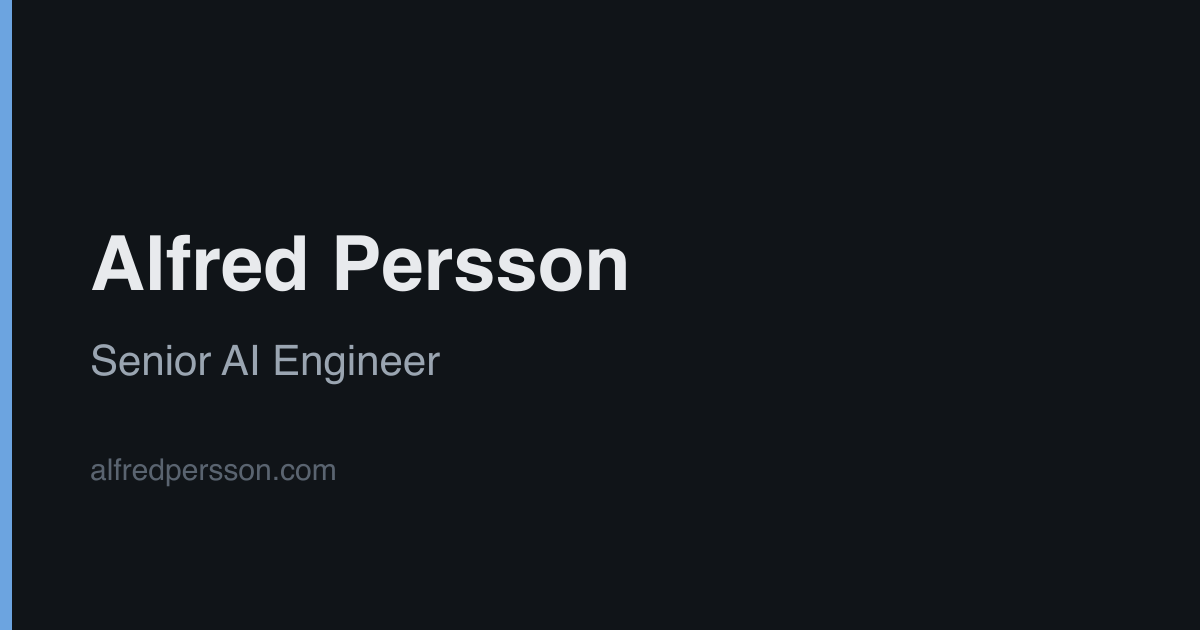
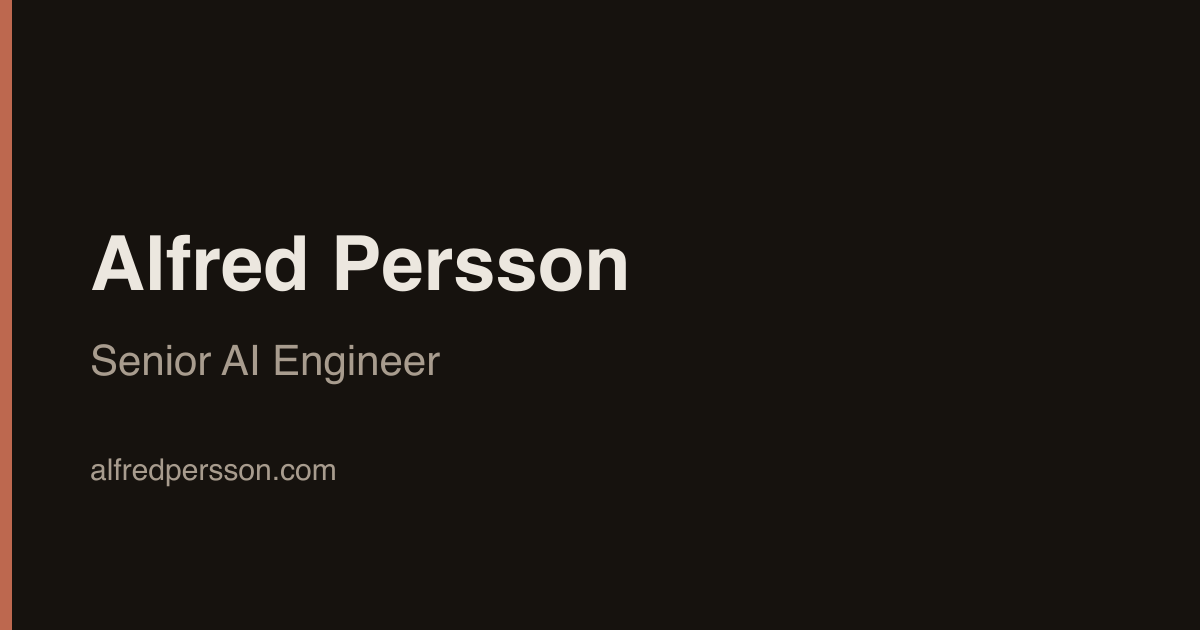
feat: A2 editorial terracotta design system

Changed region(s): [[0.0, 0.0, 0.0308, 1.0], [0.0617, 0.5429, 0.37, 0.6032], [0.0617, 0.7238, 0.2775, 0.7841]]

diff --git a/src/styles/global.css b/src/styles/global.css
@@ -1,19 +1,25 @@
 :root {
-  --bg: #ffffff;
-  --fg: #16181c;
-  --muted: #5a6470;
-  --accent: #1a5fb4;
-  --rule: #e3e6ea;
-  --font-sans: -apple-system, BlinkMacSystemFont, "Segoe UI", Roboto, "Helvetica Neue", Arial, sans-serif;
-  --font-mono: ui-monospace, SFMono-Regular, Menlo, Consolas, monospace;
+  --bg: #faf7f2;
+  --fg: #1a1714;
+  --muted: #6b6259;
+  --accent: #a34a2a;
+  --accent-hover: #7f3a20;
+  --accent-strong: #bd684f;
+  --rule: #e6dfd6;
+  --chip-bg: rgba(189, 104, 79, 0.12);
+  --font-serif: 'Source Serif 4 Variable', Georgia, 'Times New Roman', serif;
+  --font-mono: 'JetBrains Mono Variable', ui-monospace, Menlo, monospace;
 }
 @media (prefers-color-scheme: dark) {
   :root {
-    --bg: #101418;
-    --fg: #e8eaed;
-    --muted: #9aa5b1;
-    --accent: #6ca4e0;
-    --rule: #2a3138;
+    --bg: #16120e;
+    --fg: #ece7df;
+    --muted: #a89c8e;
+    --accent: #d68a6b;
+    --accent-hover: #e8a988;
+    --accent-strong: #bd684f;
+    --rule: #322a23;
+    --chip-bg: rgba(189, 104, 79, 0.18);
   }
 }
 * { box-sizing: border-box; }
@@ -21,23 +27,133 @@ body {
   margin: 0;
   background: var(--bg);
   color: var(--fg);
-  font-family: var(--font-sans);
+  font-family: var(--font-serif);
   line-height: 1.6;
   font-size: 1.0625rem;
 }
-.wrap { max-width: 44rem; margin: 0 auto; padding: 0 1.25rem; }
-a { color: var(--accent); }
+.wrap { max-width: 42.5rem; margin: 0 auto; padding: 0 1.5rem; }
+a { color: var(--accent); text-decoration-thickness: 1px; text-underline-offset: 3px; }
+a:hover { color: var(--accent-hover); text-decoration-thickness: 2px; }
 h1, h2, h3 { line-height: 1.25; }
 code, pre { font-family: var(--font-mono); font-size: 0.9em; }
-pre { overflow-x: auto; padding: 1rem; border: 1px solid var(--rule); border-radius: 6px; }
+pre { overflow-x: auto; padding: 1rem; border: 1px solid var(--rule); border-radius: 4px; }
 hr { border: 0; border-top: 1px solid var(--rule); }
-details { border: 1px solid var(--rule); border-radius: 6px; padding: 0.75rem 1rem; margin: 1rem 0; }
+table { border-collapse: collapse; width: 100%; margin: 1.5rem 0; font-size: 0.95em; display: block; overflow-x: auto; }
+th, td { border: 1px solid var(--rule); padding: 0.5rem 0.75rem; text-align: left; vertical-align: top; }
+th { font-family: var(--font-mono); font-size: 0.75em; letter-spacing: 0.06em; text-transform: uppercase; color: var(--muted); font-weight: 600; }
+details { border: 1px solid var(--rule); border-radius: 4px; padding: 0.75rem 1rem; margin: 1rem 0; }
 details > summary { cursor: pointer; font-weight: 600; }
 details[open] > summary { margin-bottom: 0.75rem; }
-header.wrap nav { display: flex; gap: 1.25rem; padding: 1.25rem 0; }
+::selection { background: var(--accent-strong); color: var(--bg); }
+
+/* nav */
+header.wrap nav { display: flex; gap: 1.5rem; align-items: baseline; padding: 1.75rem 0 0 0; flex-wrap: wrap; }
 header.wrap nav a { color: var(--fg); text-decoration: none; }
-header.wrap nav a:first-child { font-weight: 700; margin-right: auto; }
-footer.wrap { color: var(--muted); font-size: 0.9rem; padding-bottom: 2rem; }
-.case-card { border: 1px solid var(--rule); border-radius: 6px; padding: 1rem 1.25rem; margin: 1rem 0; }
-.case-card h3 { margin-top: 0; }
-.reserved { color: var(--muted); font-size: 0.85rem; font-weight: 400; margin-left: 0.5rem; }
+header.wrap nav a:first-child {
+  font-weight: 700;
+  font-size: 17px;
+  margin-right: auto;
+  display: flex;
+  align-items: center;
+  gap: 9px;
+}
+header.wrap nav a:first-child::before {
+  content: '';
+  width: 9px;
+  height: 9px;
+  background: var(--accent-strong);
+  display: inline-block;
+  flex-shrink: 0;
+}
+header.wrap nav a:not(:first-child) {
+  font-family: var(--font-mono);
+  font-size: 12.5px;
+  letter-spacing: 0.04em;
+}
+
+/* footer */
+footer.wrap { font-family: var(--font-mono); color: var(--muted); font-size: 0.8125rem; padding-bottom: 2rem; }
+
+/* numbered section label */
+.section-label { display: flex; align-items: baseline; gap: 14px; margin: 0 0 26px 0; }
+.section-label__num { font-family: var(--font-mono); font-size: 13px; font-weight: 600; color: var(--accent); }
+.section-label h2 {
+  font-size: 15px;
+  font-weight: 600;
+  letter-spacing: 0.11em;
+  text-transform: uppercase;
+  margin: 0;
+  font-family: var(--font-mono);
+}
+.section-label__rule { flex: 1; border-top: 1px solid var(--rule); align-self: center; }
+
+/* metric chip */
+.chip {
+  font-family: var(--font-mono);
+  font-size: 12px;
+  font-weight: 500;
+  color: var(--accent);
+  background: var(--chip-bg);
+  padding: 4px 10px;
+  white-space: nowrap;
+}
+
+/* reserved label */
+.reserved { font-family: var(--font-mono); font-size: 12px; color: var(--muted); white-space: nowrap; }
+
+/* case study card */
+.case-card { padding: 4px 0 0 0; margin: 1rem 0; }
+.case-card__head { display: flex; align-items: baseline; justify-content: space-between; gap: 16px; flex-wrap: wrap; margin: 0 0 10px 0; }
+.case-card__head h3 { font-size: 24px; font-weight: 600; margin: 0; letter-spacing: -0.01em; }
+.case-card__head h3 a { color: var(--fg); text-decoration: none; }
+.case-card .problem { font-size: 16.5px; line-height: 1.55; margin: 0 0 20px 0; }
+.case-card .problem em { color: var(--muted); }
+
+/* ledger rows (decisions) */
+.ledger { display: flex; flex-direction: column; }
+.ledger-row { border-top: 1px solid var(--rule); padding: 14px 0; display: grid; grid-template-columns: 96px minmax(0, 1fr); gap: 14px; }
+.ledger-row__label {
+  font-family: var(--font-mono);
+  font-size: 11px;
+  font-weight: 600;
+  letter-spacing: 0.1em;
+  text-transform: uppercase;
+  color: var(--muted);
+  padding-top: 3px;
+}
+.ledger-row p { font-size: 15px; line-height: 1.5; margin: 0; }
+.ledger-row .measured-by { font-family: var(--font-mono); font-size: 12.5px; color: var(--accent); }
+.ledger-bottom { border-top: 1px solid var(--rule); }
+@media (max-width: 680px) {
+  .ledger-row { grid-template-columns: 1fr; gap: 4px; }
+  .chip { white-space: normal; }
+}
+
+.post-meta { font-family: var(--font-mono); font-size: 13px; color: var(--muted); }
+
+/* hero */
+.hero { padding: 72px 0 56px 0; }
+.hero-grid { display: grid; grid-template-columns: minmax(0, 1fr) 196px; gap: 44px; align-items: start; }
+.hero-photo-wrap { position: relative; padding: 10px 10px 0 0; }
+.hero-photo-mark { position: absolute; top: 0; right: 0; width: 56px; height: 56px; background: var(--accent-strong); display: block; }
+.hero-photo { position: relative; aspect-ratio: 4 / 5; background: #e9e2d8; overflow: hidden; }
+.hero-photo img { width: 100%; height: 100%; object-fit: cover; object-position: 46% 20%; display: block; }
+.hero h1 { font-size: clamp(2.75rem, 4vw + 1.5rem, 4.25rem); line-height: 1.0; margin: 0 0 14px 0; font-weight: 700; letter-spacing: -0.025em; }
+.hero .role { font-size: 26px; line-height: 1.3; margin: 0 0 22px 0; font-weight: 600; color: var(--accent); }
+.hero .identity { font-size: 19px; line-height: 1.5; margin: 0 0 10px 0; max-width: 30rem; }
+.hero .situation { font-size: 16px; line-height: 1.55; margin: 0; color: var(--muted); }
+.hero-links {
+  font-family: var(--font-mono);
+  font-size: 13px;
+  margin: 30px 0 0 0;
+  display: flex;
+  gap: 22px;
+  flex-wrap: wrap;
+  border-top: 1px solid var(--rule);
+  padding-top: 18px;
+}
+@media (max-width: 680px) {
+  .hero-grid { grid-template-columns: 1fr; }
+  .hero-photo-wrap { order: -1; width: 150px; margin: 0 auto 24px; padding: 0; }
+  .hero-photo-mark { width: 40px; height: 40px; }
+}
